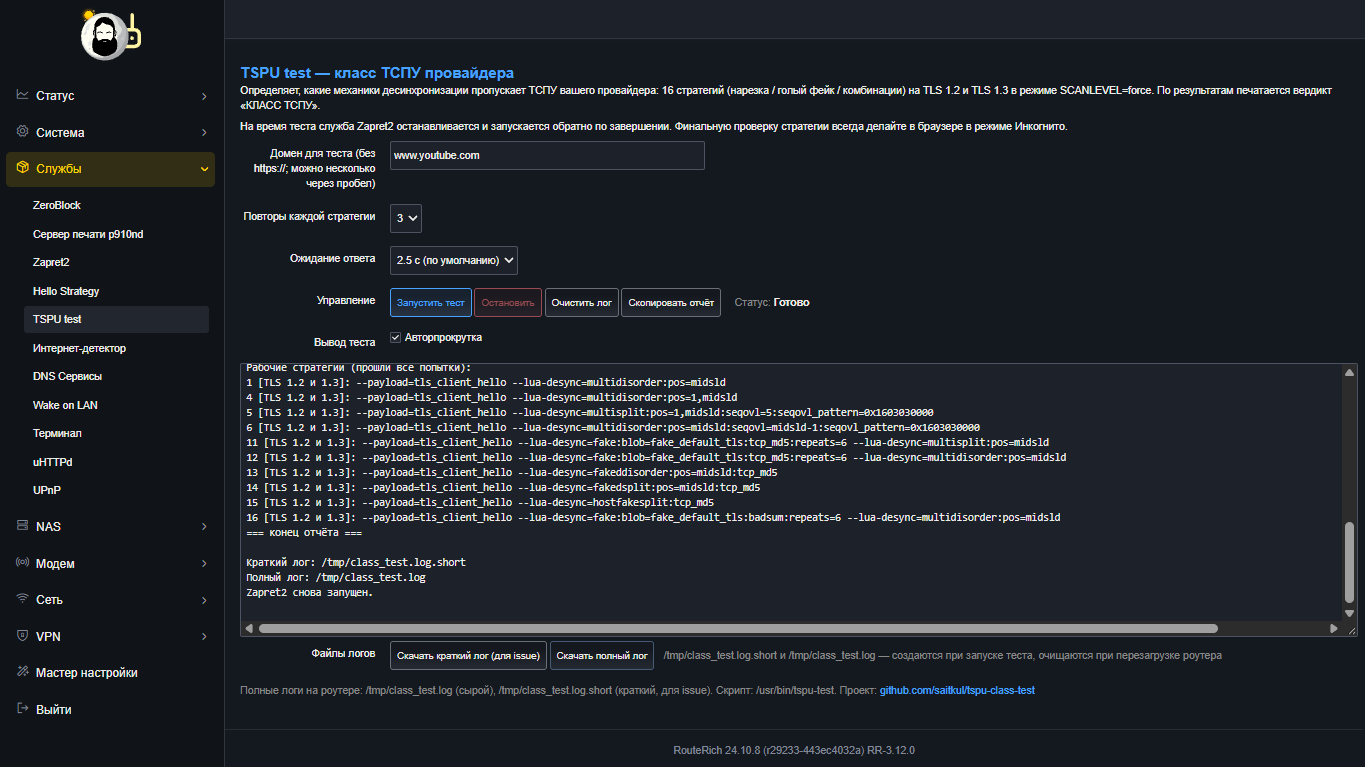
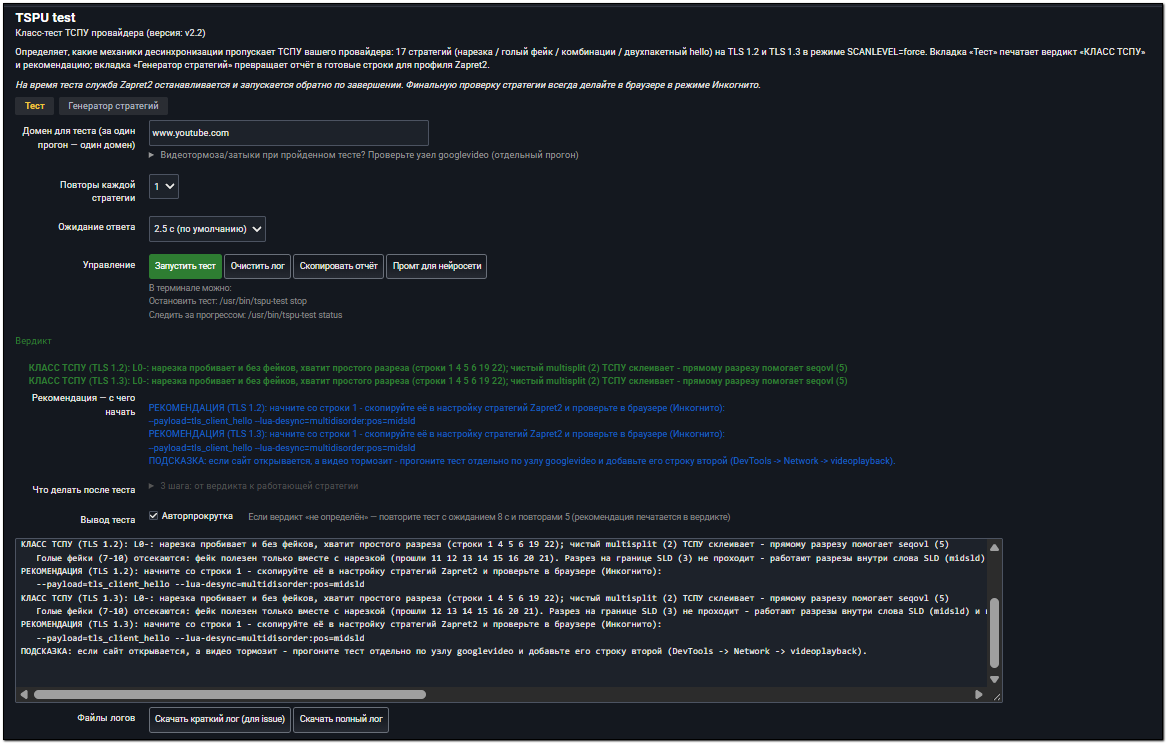
docs: replace stale 1.x screenshots with v2.2 UI (Test tab + Generator tab)

Changed region(s): [[0.0, 0.0, 1.0, 1.0], [0.8329, 0.9274, 0.8638, 0.9583]]

diff --git a/README.md b/README.md
@@ -32,6 +32,10 @@
 | **Деавторизация после установки** | панель сама завершает сессию и просит войти заново — интерфейс гарантированно обновляется |
 | **Безопасность** | временные файлы только в `/tmp`; служба `zapret2` на время теста останавливается и запускается обратно; конфигурация Zapret2 не изменяется |
 
+**Вкладка «Тест»** — скриншот выше. **Вкладка «Генератор стратегий»** — вставляете отчёт (кнопка «Вставить отчёт последнего теста»), получаете 6 готовых вариантов и копируете выбранный в Zapret2:
+
+![Генератор стратегий](docs/screenshot-generator.png)
+
 ## 📦 Установка приложения (роутер)
 
 Требования: OpenWrt 23.05/24.x или 25.x, установленный [Zapret2](https://github.com/bol-van/zapret2) в `/opt/zapret2` (с `blockcheck2.sh`), `curl`, LuCI.
